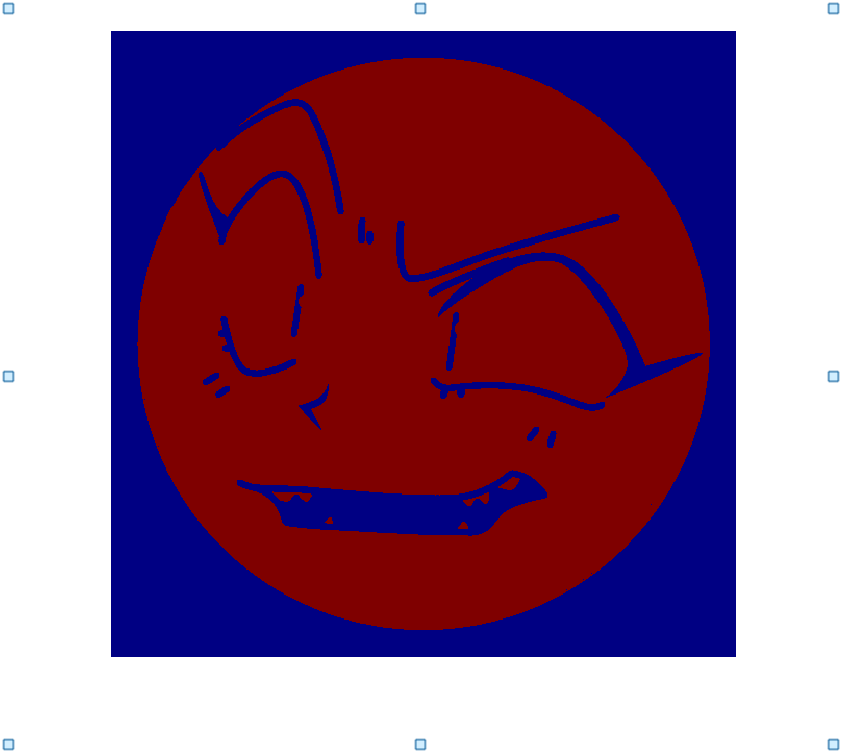
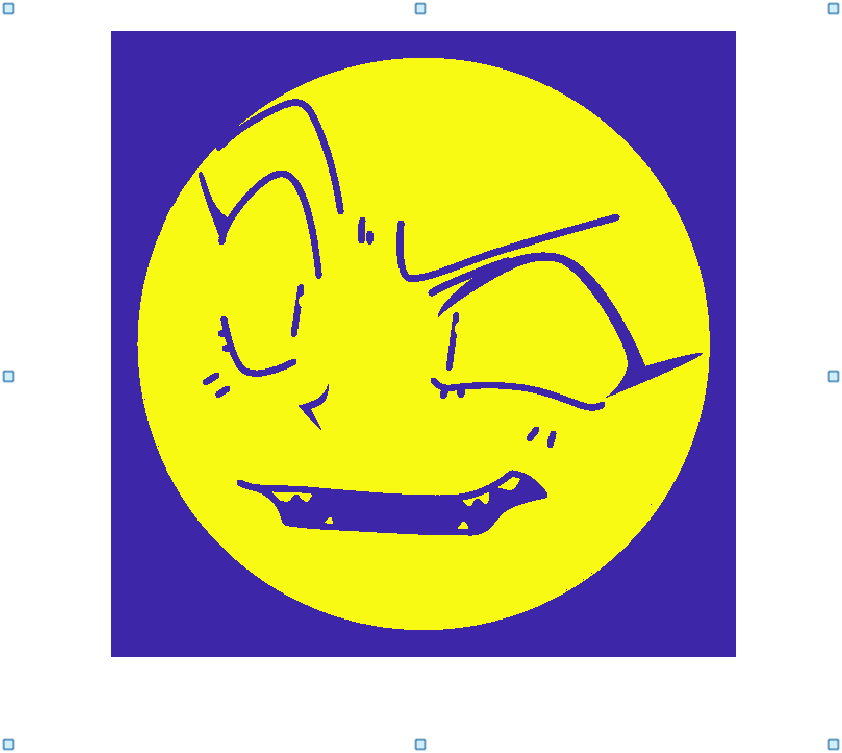
cleaning

diff --git a/popArt/thresholding.m b/popArt/thresholding.m
@@ -1,19 +1,15 @@
 img = imread('wtfIcon.png');
-% imshow(img);
 
 % grayscale
-imgGray = rgb2gray(img);
-% imshow(imgGray);
+%  imgGray = rgb2gray(img);
 
-% % binary img 
+%  binary img 
 level = 0.6091;
 imgThresh  = imbinarize(imgGray,level);
 % imshowpair(img, imgThresh, 'montage');
-% 
 
 % use random color map function from imtool
 colorOps = {'jet', 'autumn', 'bone','colorcube', 'cool', 'copper', 'flag','gray', 'hot', 'lines', 'parula', 'pink', 'prism', 'spring','summer', 'winter'};
-
 op = string(colorOps(randi(size(colorOps,2))));
 imshow(imgThresh); 
 colormap(colormap(op));
